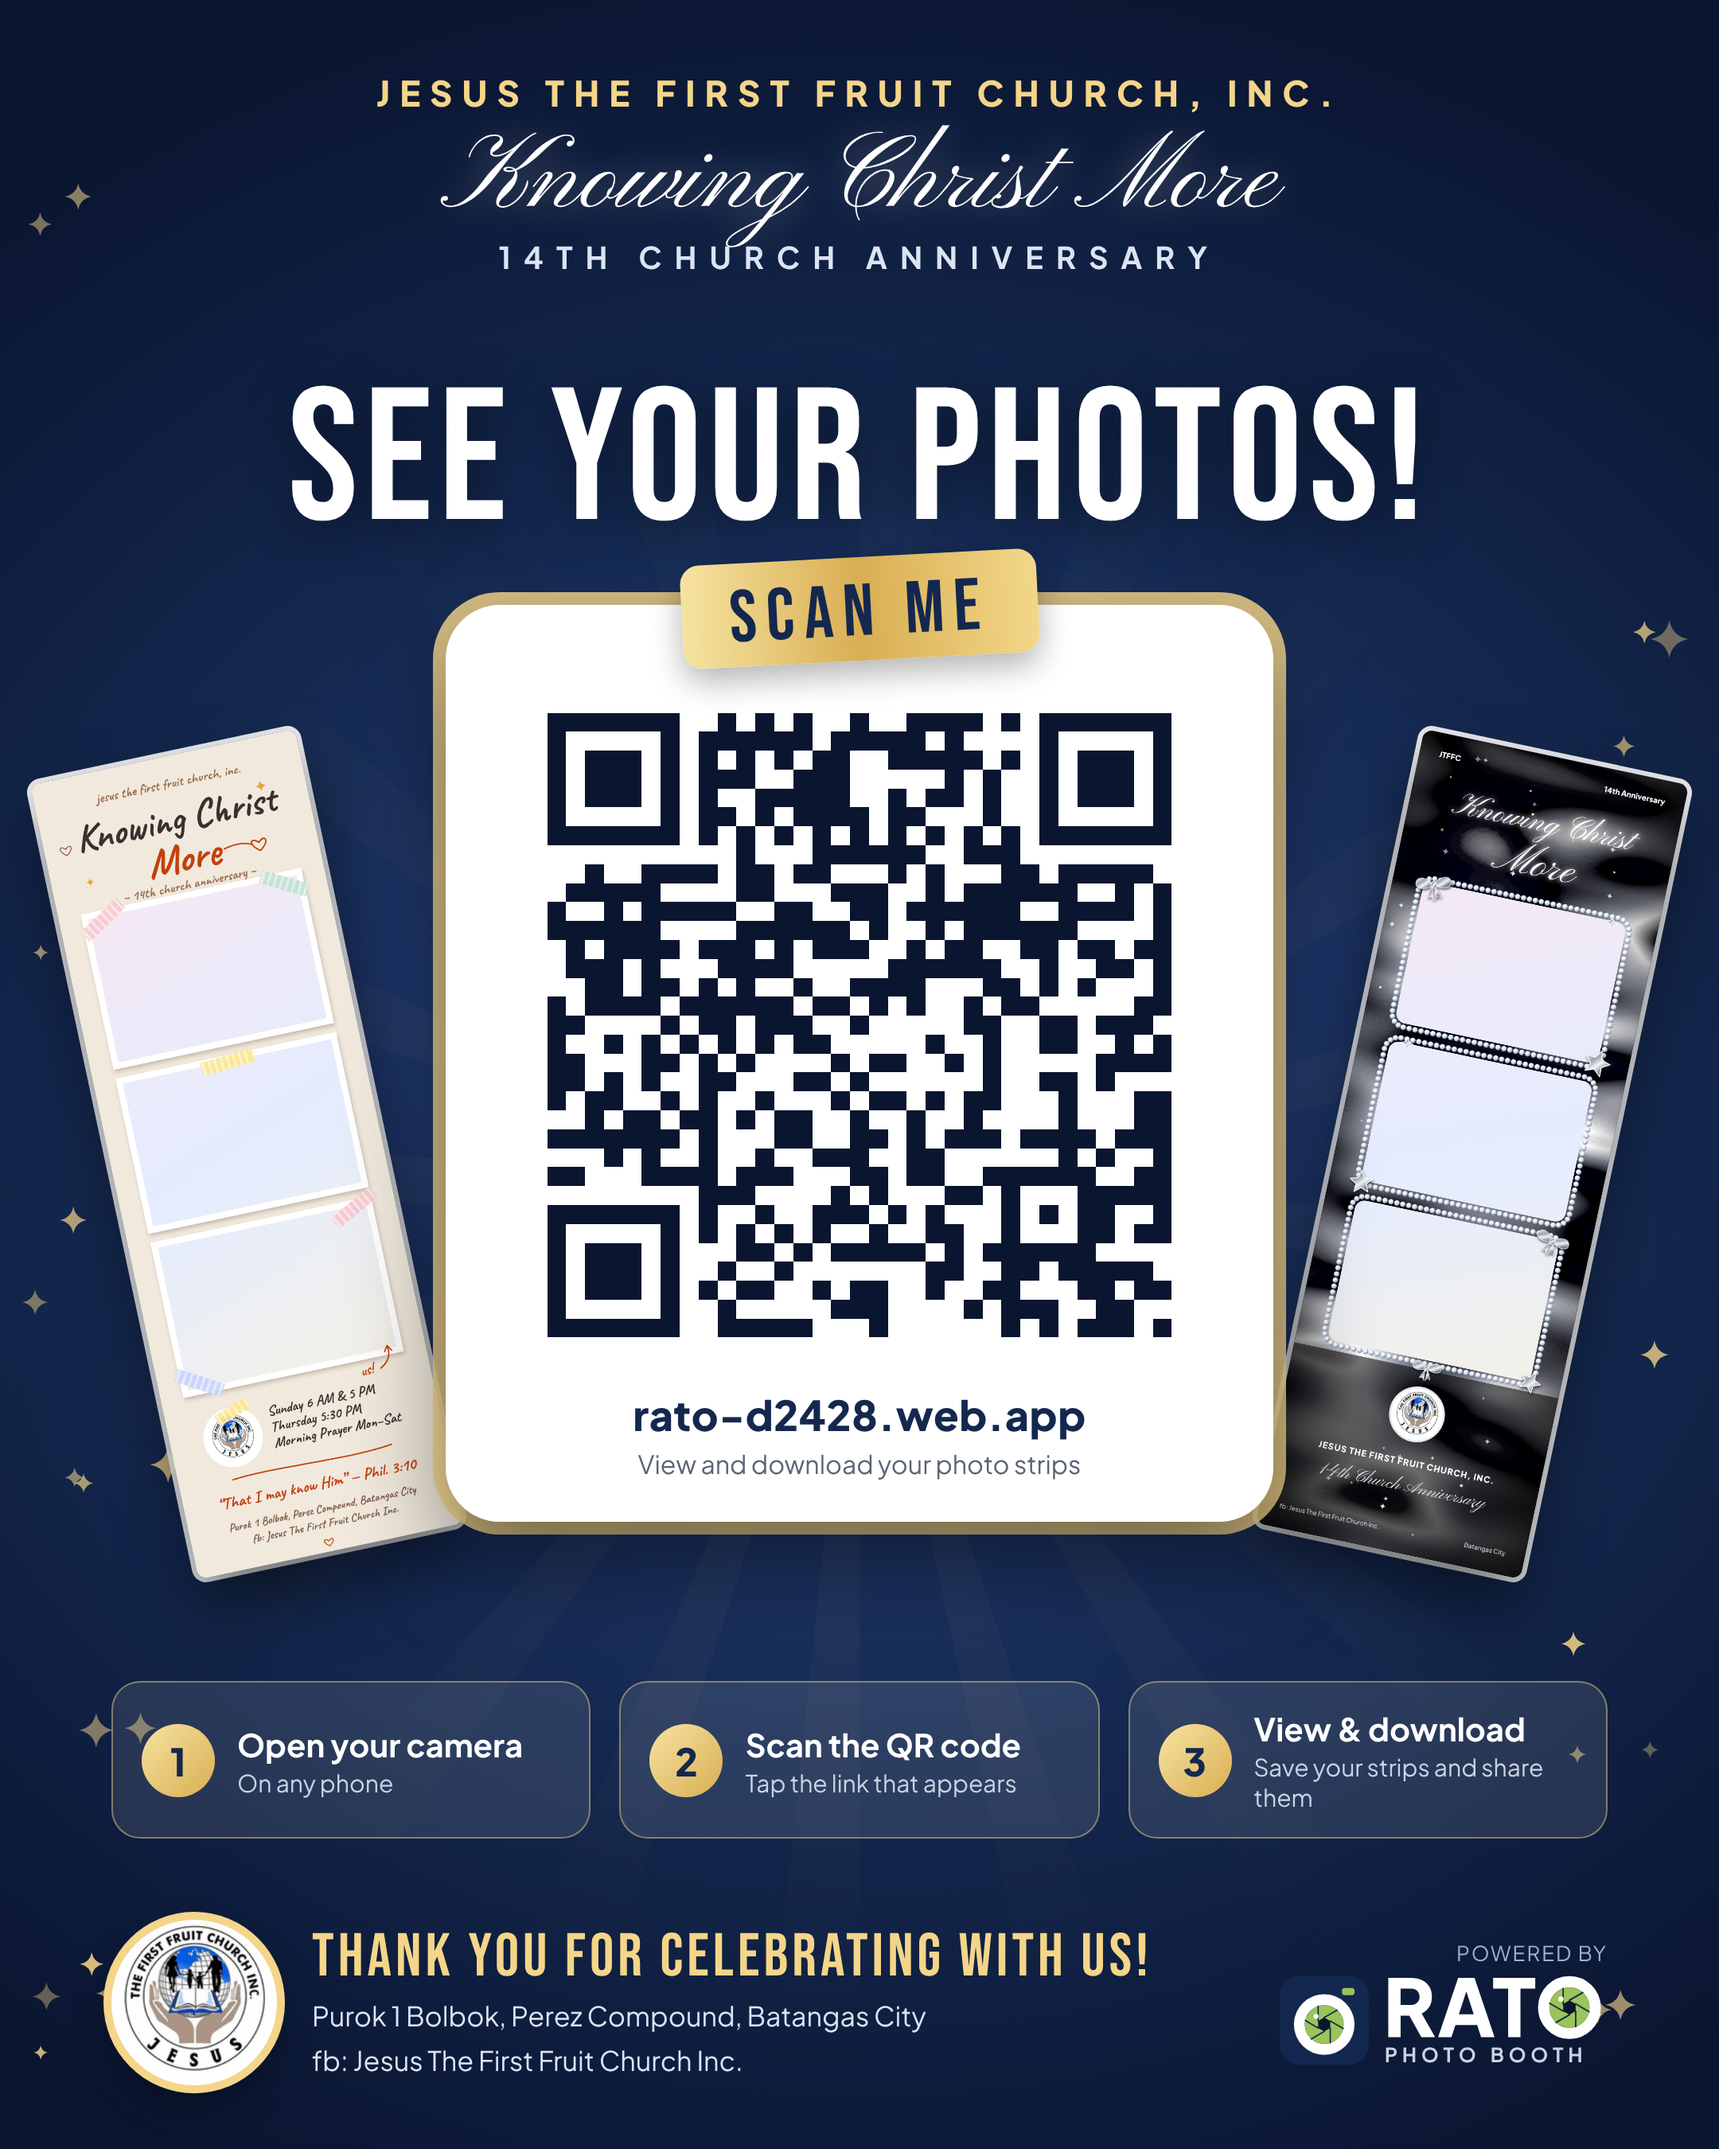
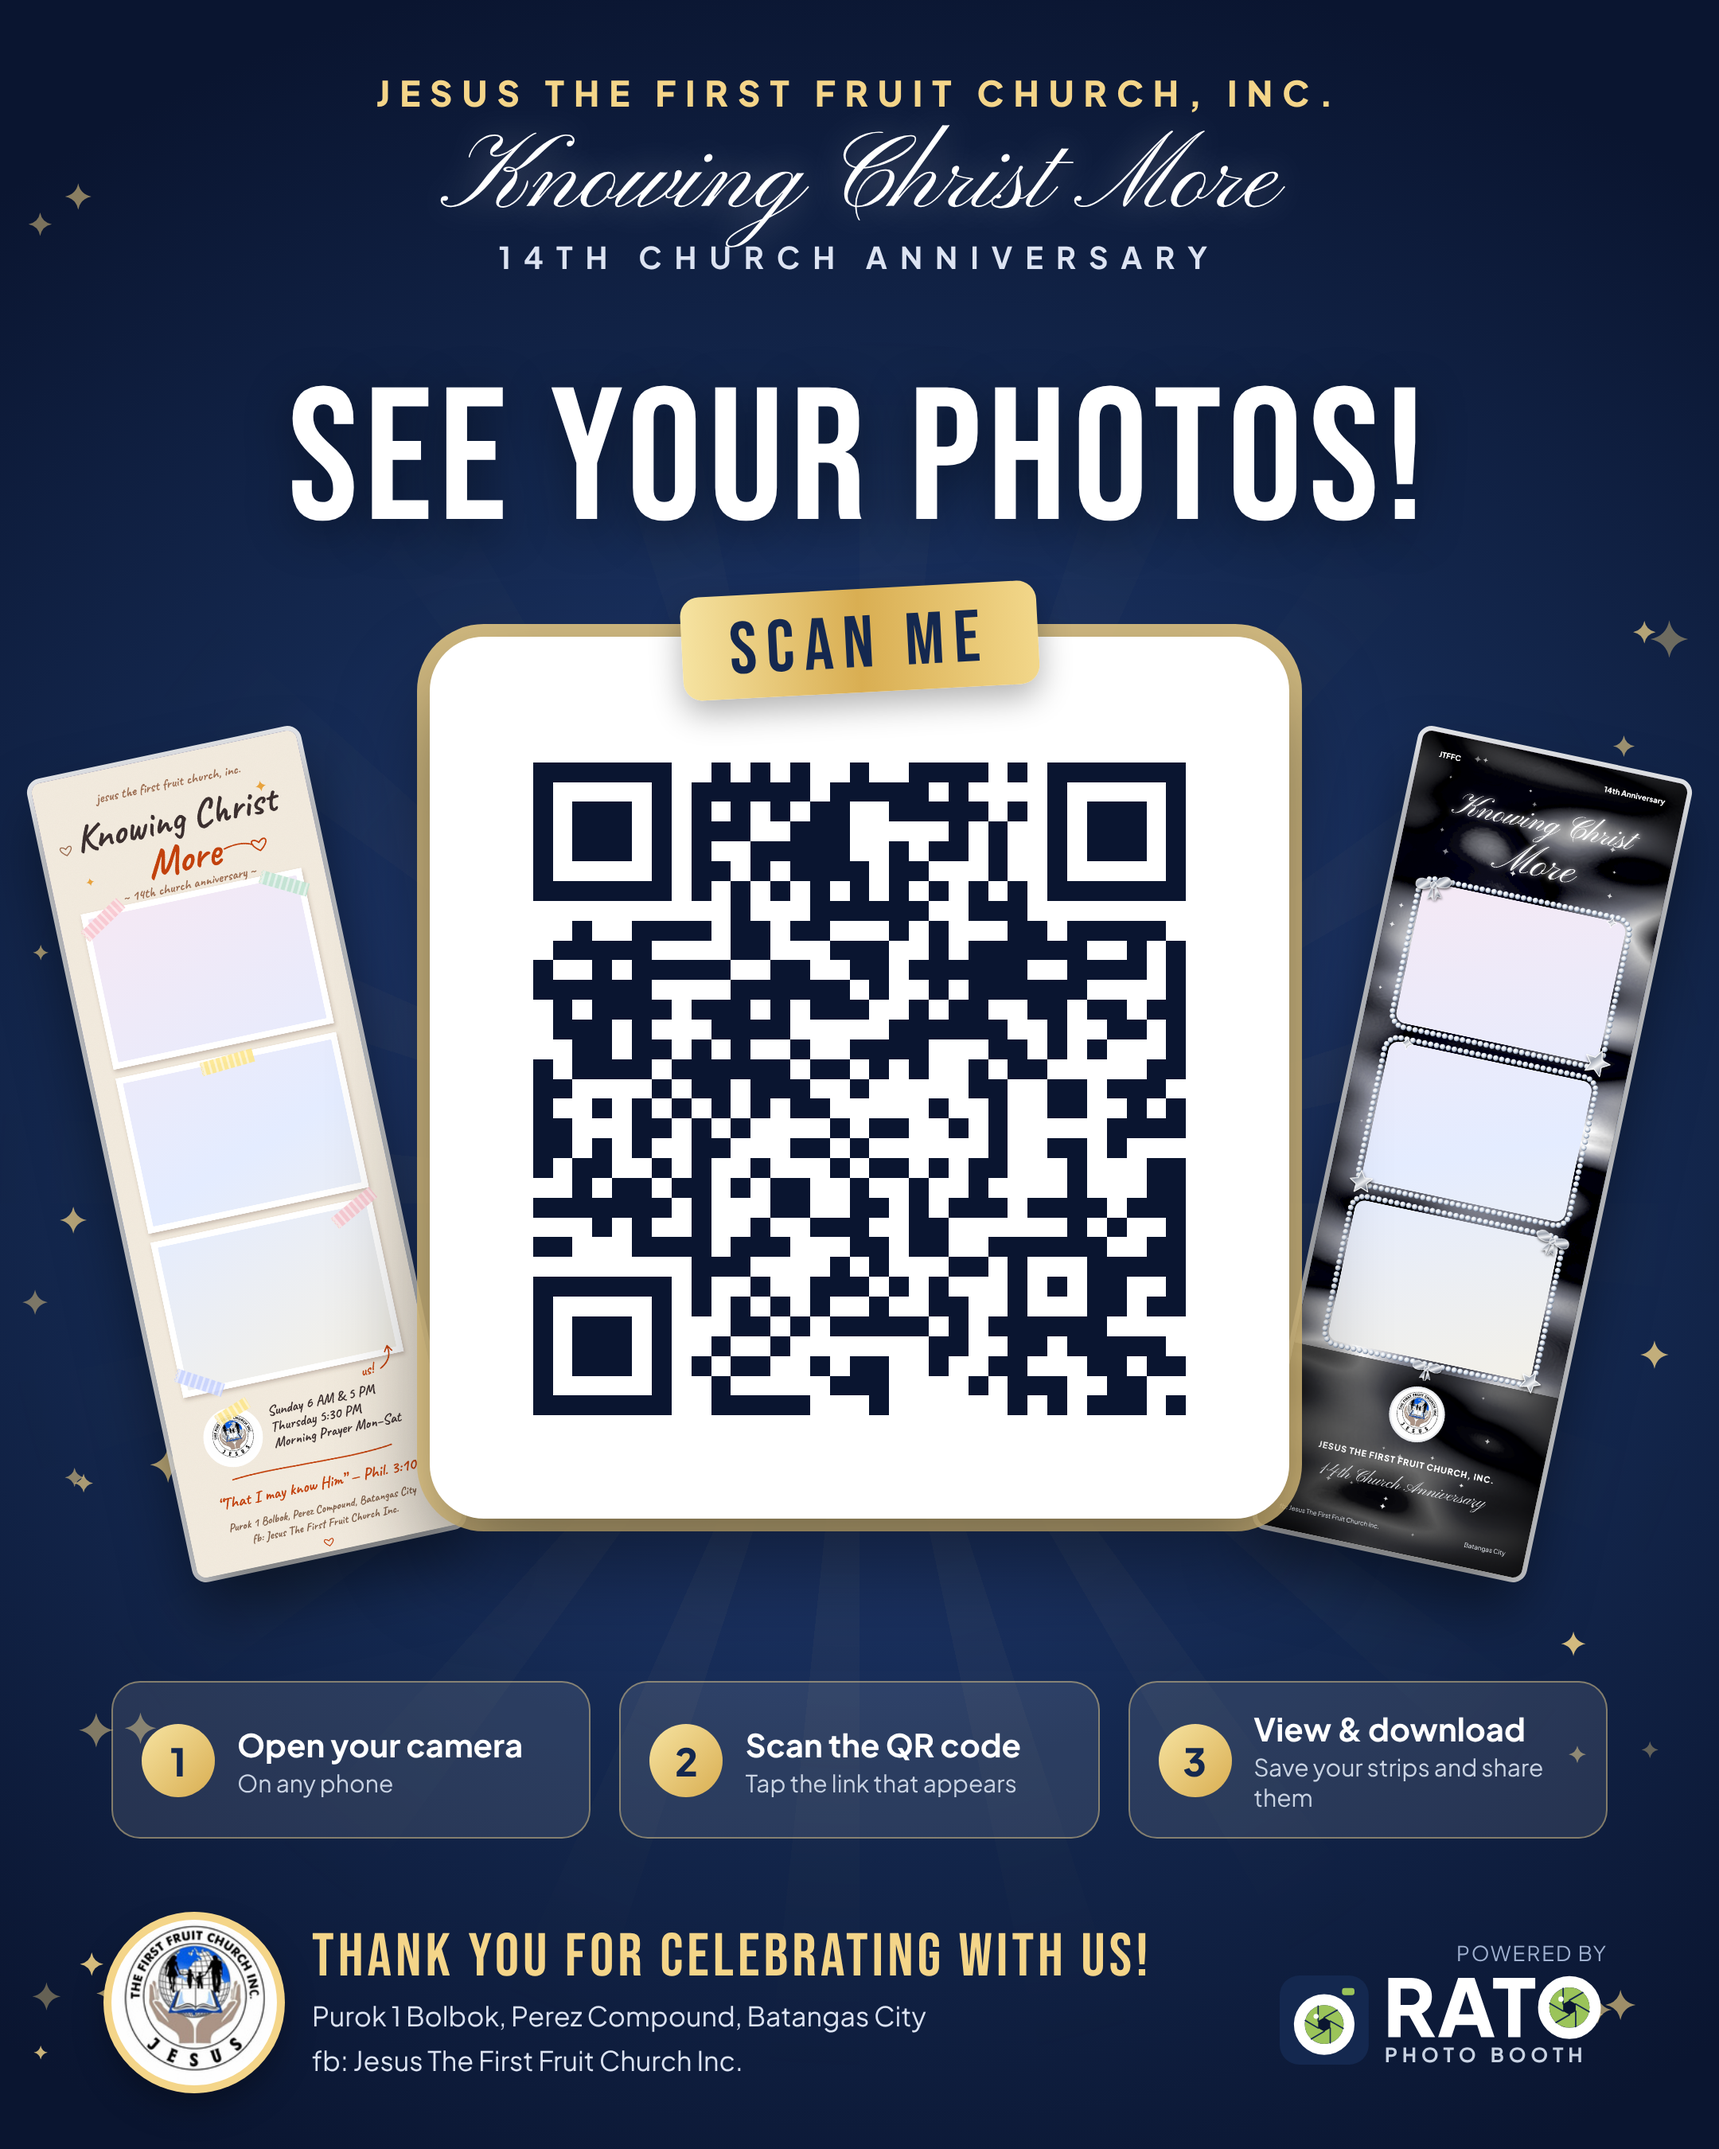
docs: QR poster shows only the QR code, without the link text
Claude-Session: https://claude.ai/code/session_01Gyguvs3ySMau4WgXk6kDpY

Changed region(s): [[0.2171, 0.2489, 0.7755, 0.7156]]

diff --git a/brand/posters/source/make-qr-poster.py b/brand/posters/source/make-qr-poster.py
@@ -42,13 +42,13 @@ svg.deco {{ position: absolute; inset: 0; }}
 .strip img {{ width: 100%; height: 100%; display: block; border-radius: 6px; }}
 .strip.left {{ left: 70px; transform: rotate(-12deg); }}
 .strip.right {{ right: 70px; transform: rotate(12deg); }}
-.card {{ position: absolute; top: 380px; left: 50%; width: 520px; margin-left: -260px; padding: 34px 34px 26px;
+.card {{ position: absolute; top: 400px; left: 50%; width: 540px; margin-left: -270px; padding: 44px 40px 40px;
   border-radius: 34px; background: #fff; text-align: center; color: #14284F;
   box-shadow: 0 30px 60px rgba(0,0,0,.45), 0 0 0 8px rgba(244,213,137,.85); z-index: 5; }}
 .badge {{ position: absolute; top: -30px; left: 50%; transform: translateX(-50%) rotate(-3deg); padding: 8px 30px 2px;
   font-family: 'Bebas'; font-size: 46px; letter-spacing: 6px; color: #14284F; white-space: nowrap;
   background: linear-gradient(90deg, #F6E3A1, #D9AE52, #F2D78A); border-radius: 12px; box-shadow: 0 8px 20px rgba(0,0,0,.3); }}
-.qr {{ display: block; width: 440px; height: 440px; margin: 10px auto 0; image-rendering: pixelated; }}
+.qr {{ display: block; width: 460px; height: 460px; margin: 10px auto 0; image-rendering: pixelated; }}
 .url {{ margin-top: 8px; font-weight: 800; font-size: 26px; letter-spacing: .3px; color: #14284F; }}
 .hint {{ margin-top: 4px; font-size: 16px; color: #5B6577; }}
 .steps {{ position: absolute; top: 1056px; left: 70px; right: 70px; display: flex; gap: 18px; }}
@@ -80,8 +80,6 @@ svg.deco {{ position: absolute; inset: 0; }}
 <div class="card">
   <div class="badge">SCAN ME</div>
   <img class="qr" src="{QR}" alt="QR code">
-  <div class="url">{URL.replace('https://', '').rstrip('/')}</div>
-  <div class="hint">View and download your photo strips</div>
 </div>
 <div class="steps">
   <div class="step"><div class="num">1</div><div><b>Open your camera</b><span>On any phone</span></div></div>
